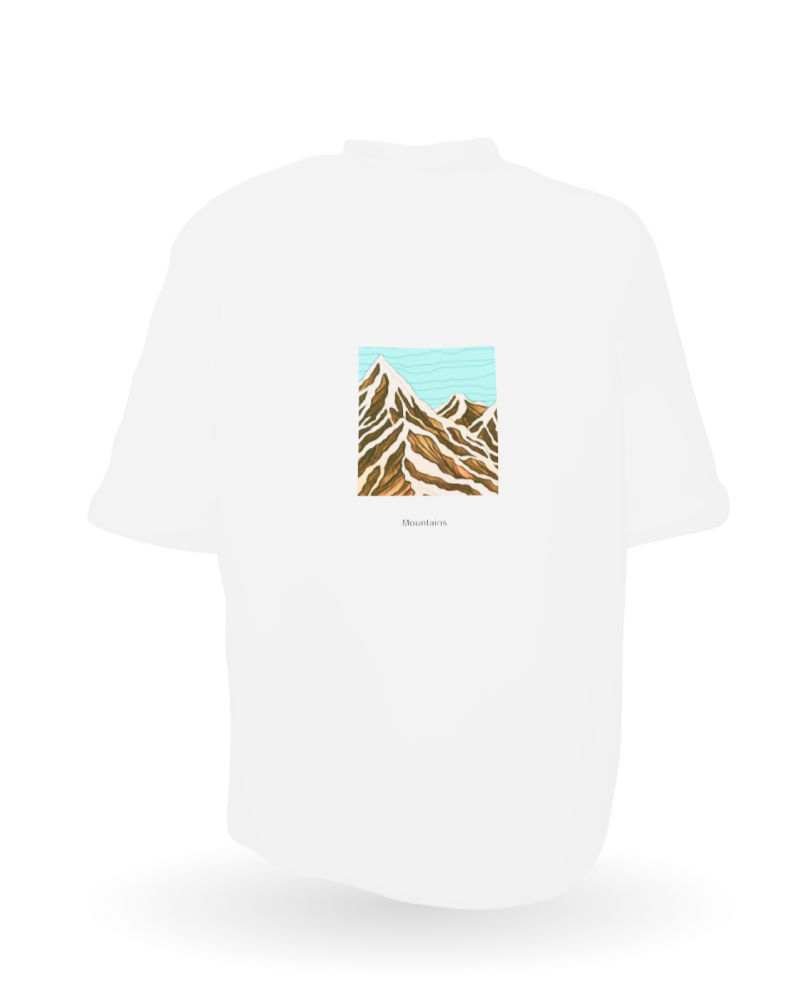
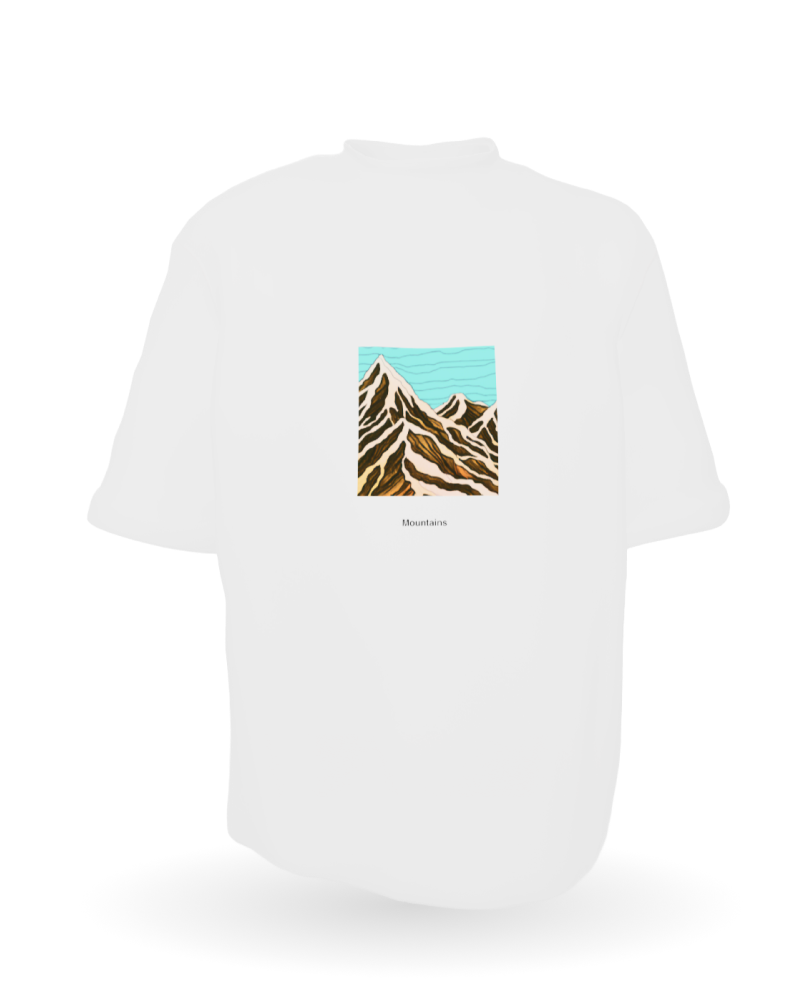
Landing page - The Range section

Changed region(s): [[0.4375, 0.341, 0.625, 0.496]]

diff --git a/src/app/page.js b/src/app/page.js
@@ -186,8 +186,8 @@ export default function HomePage() {
       <Box
         id="the-range"
         sx={{
-          background: 'linear-gradient(to bottom, #f7f8fa, #C9C9C9)',
-          padding: {md: 12, xs: 4},
+          background: 'linear-gradient(to bottom, #f7f8fa, #AAAAAA)',
+          padding: { md: 12, xs: 4 },
           marginY: 12,
           maxWidth: '1600px',
           marginX: 'auto',
@@ -203,7 +203,7 @@ export default function HomePage() {
           The Range
         </Typography>
         <Grid container spacing={4}>
-          <Grid item xs={6} md={3}>
+          <Grid item xs={6} md={2.4}>
             <Link href="/product/songtshirt" underline="none">
               <Box>
                 <Box
@@ -227,7 +227,7 @@ export default function HomePage() {
               </Box>
             </Link>
           </Grid>
-          <Grid item xs={6} md={3}>
+          <Grid item xs={6} md={2.4}>
             <Link href="/product/ai-tshirt" underline="none">
               <Box>
                 <Box
@@ -251,7 +251,7 @@ export default function HomePage() {
               </Box>
             </Link>
           </Grid>
-          <Grid item xs={6} md={3}>
+          <Grid item xs={6} md={2.4}>
             <Link href="/product/basic-tshirt" underline="none">
               <Box>
                 <Box
@@ -263,7 +263,6 @@ export default function HomePage() {
                       opacity: 1.0,
                     },
                   }}
-                  
                 >
                   <img src="/landing-page/basic.png" alt="Basics" style={{ width: '100%', borderRadius: '8px', marginBottom: '16px' }} />
                 </Box>
@@ -276,29 +275,51 @@ export default function HomePage() {
               </Box>
             </Link>
           </Grid>
-          <Grid item xs={6} md={3}>
-            {/* <Link href="" underline="none"> */}
+          <Grid item xs={6} md={2.4}>
+            <Link href="/product/emoji-tshirt" underline="none">
               <Box>
                 <Box
                   sx={{
                     transition: 'transform 0.8s',
-                    opacity: 0.6,
+                    opacity: 0.96,
                     '&:hover': {
-                        transform: 'rotate(360deg)',
-                        opacity: 1.0,
+                      transform: 'scale(1.2)',
+                      opacity: 1.0,
                     },
                   }}
                 >
-                  <img src="/landing-page/coming-soon.png" alt="Basics" style={{ width: '100%', borderRadius: '8px', marginBottom: '16px' }} />
+                  <img src="/landing-page/emoji.png" alt="Basics" style={{ width: '100%', borderRadius: '8px', marginBottom: '16px' }} />
                 </Box>
                 <Typography variant="h6" sx={{ fontWeight: 'bold' }}>
-                  More...
+                  Emoji Tshirt
                 </Typography>
                 <Typography variant="subtitle1">
-                  in our labs 🧪
+                  Design with Emoji and short text
                 </Typography>
               </Box>
-            {/* </Link> */}
+            </Link>
+          </Grid>
+          <Grid item xs={12} md={2.4} sx={{ display: { xs: 'flex', md: 'block' }, justifyContent: { xs: 'center' } }}>
+            <Box>
+              <Box
+                sx={{
+                  transition: 'transform 0.8s',
+                  opacity: 0.6,
+                  '&:hover': {
+                      transform: 'rotate(360deg)',
+                      opacity: 1.0,
+                  },
+                }}
+              >
+                <img src="/landing-page/coming-soon.png" alt="Basics" style={{ width: '100%', borderRadius: '8px', marginBottom: '16px' }} />
+              </Box>
+              <Typography variant="h6" sx={{ fontWeight: 'bold' }}>
+                More...
+              </Typography>
+              <Typography variant="subtitle1">
+                in our labs 🧪
+              </Typography>
+            </Box>
           </Grid>
         </Grid>
       </Box>
